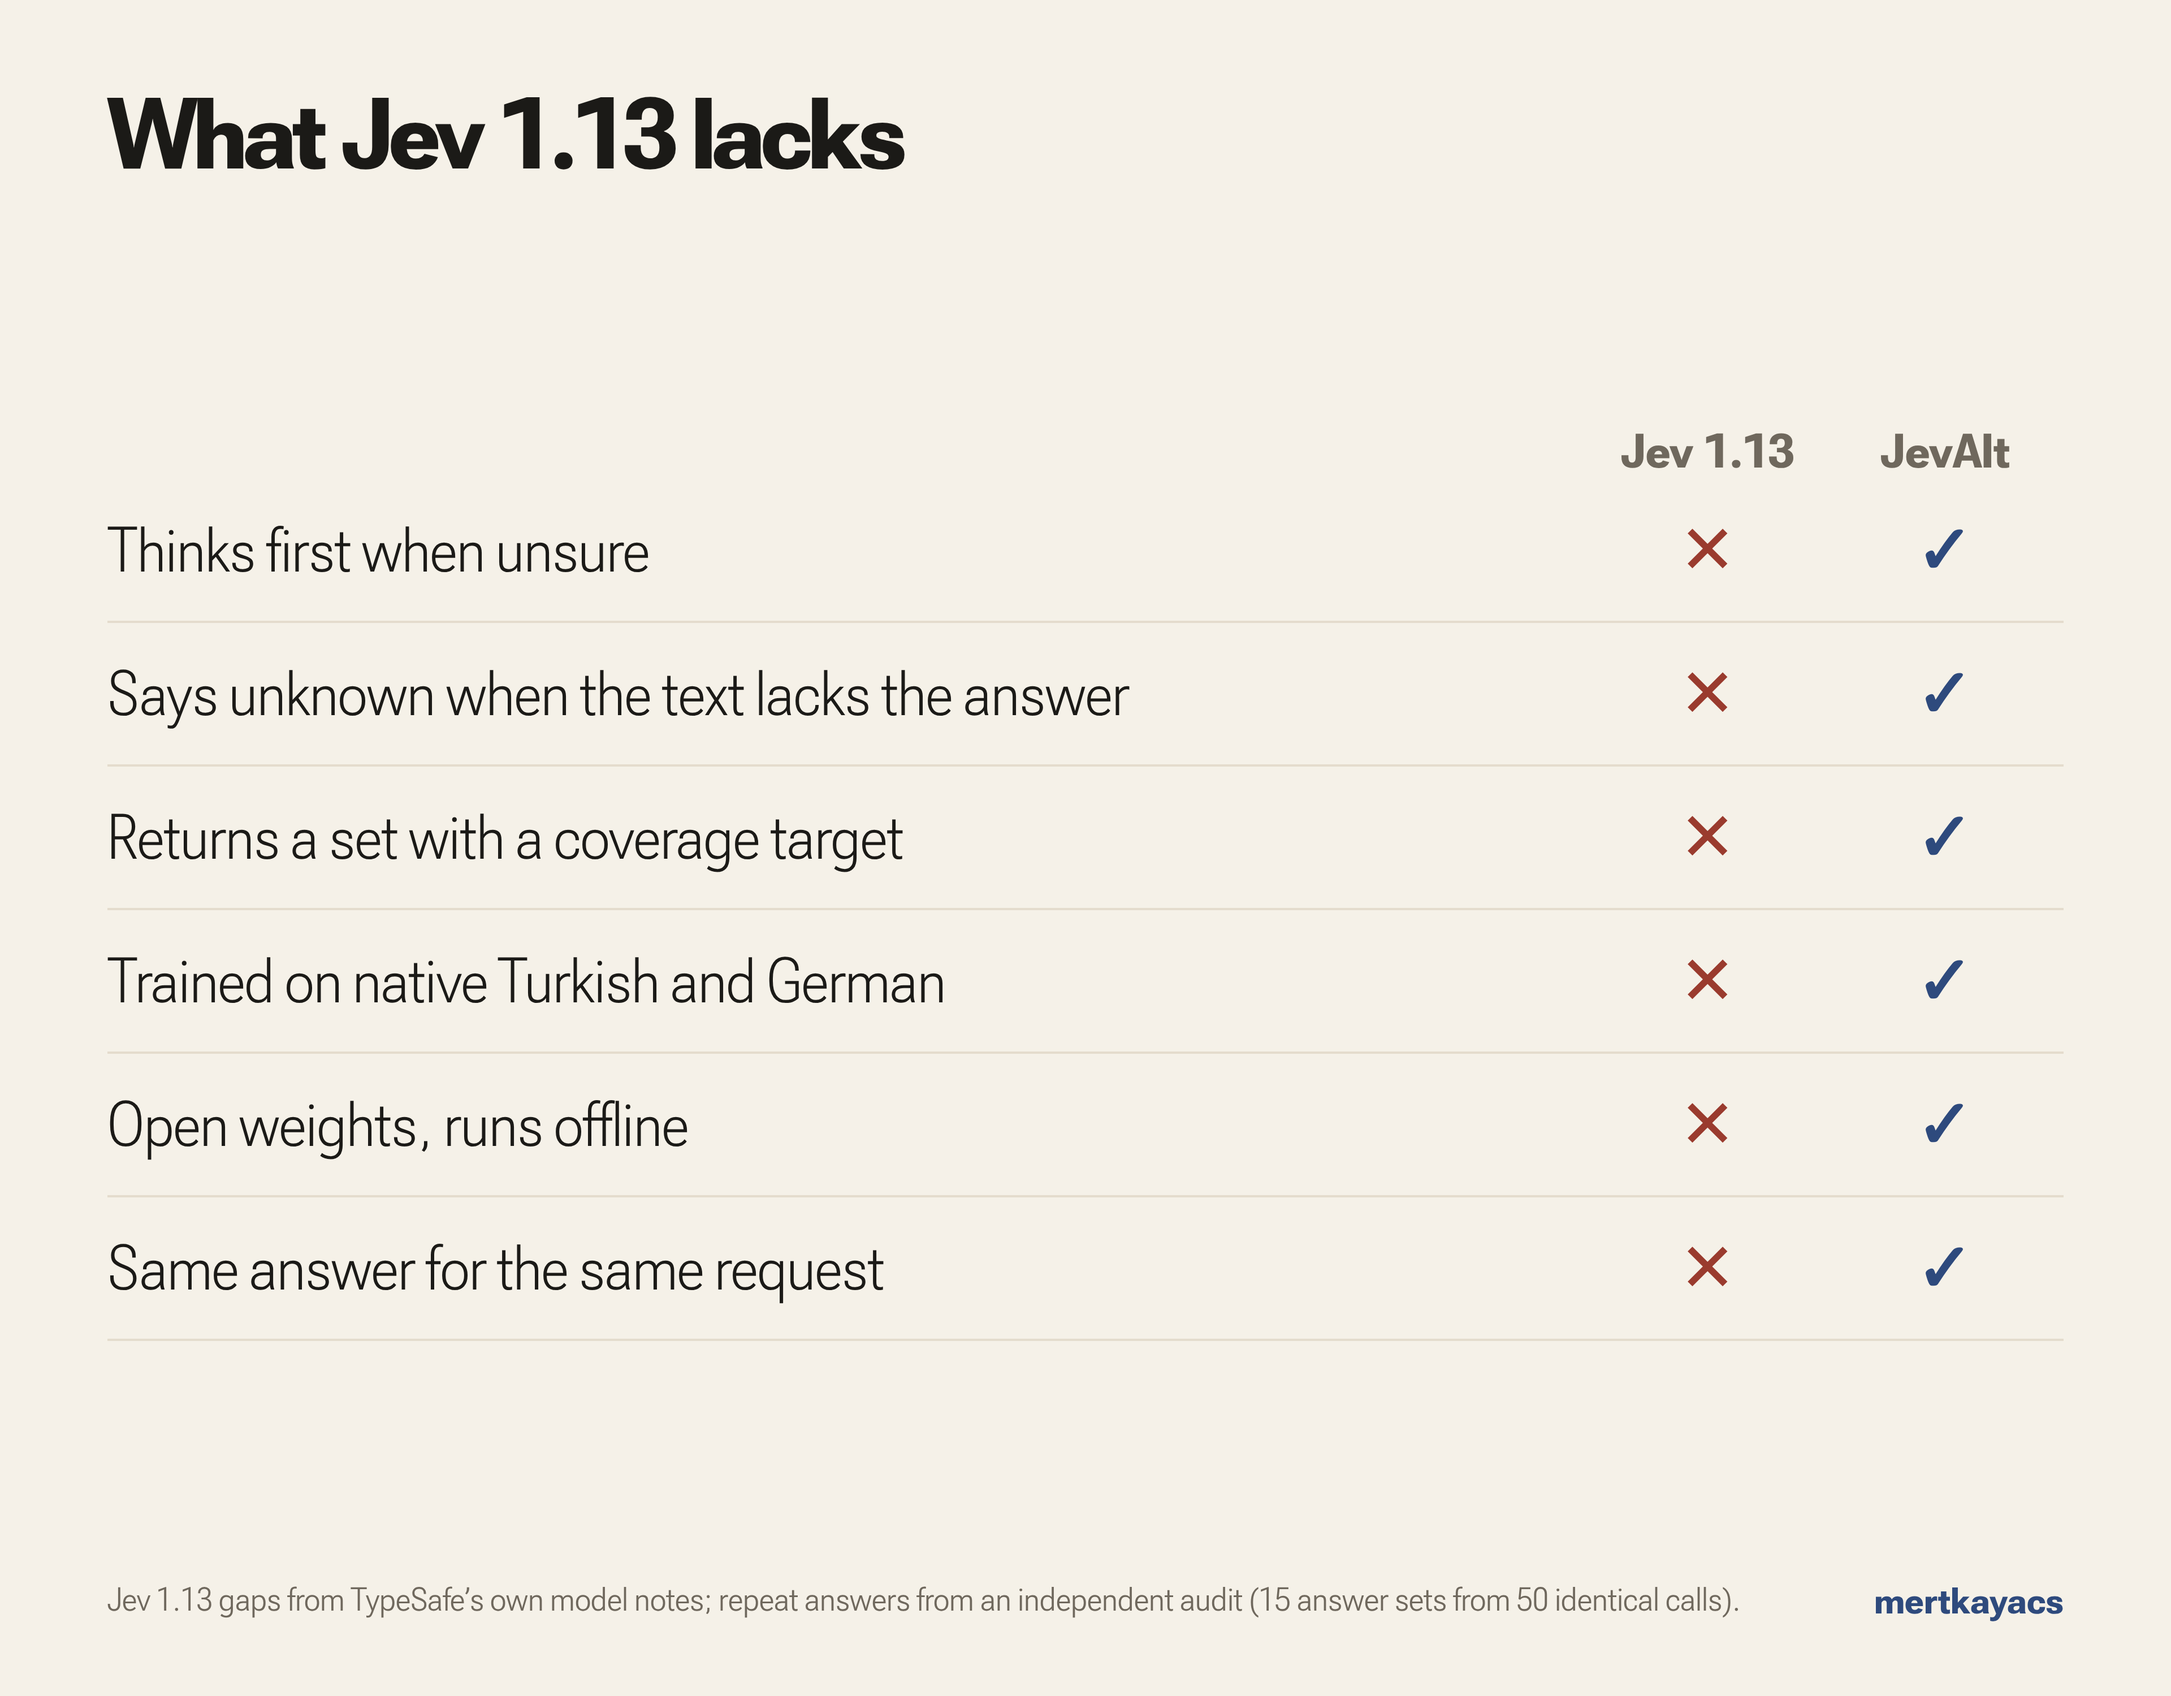
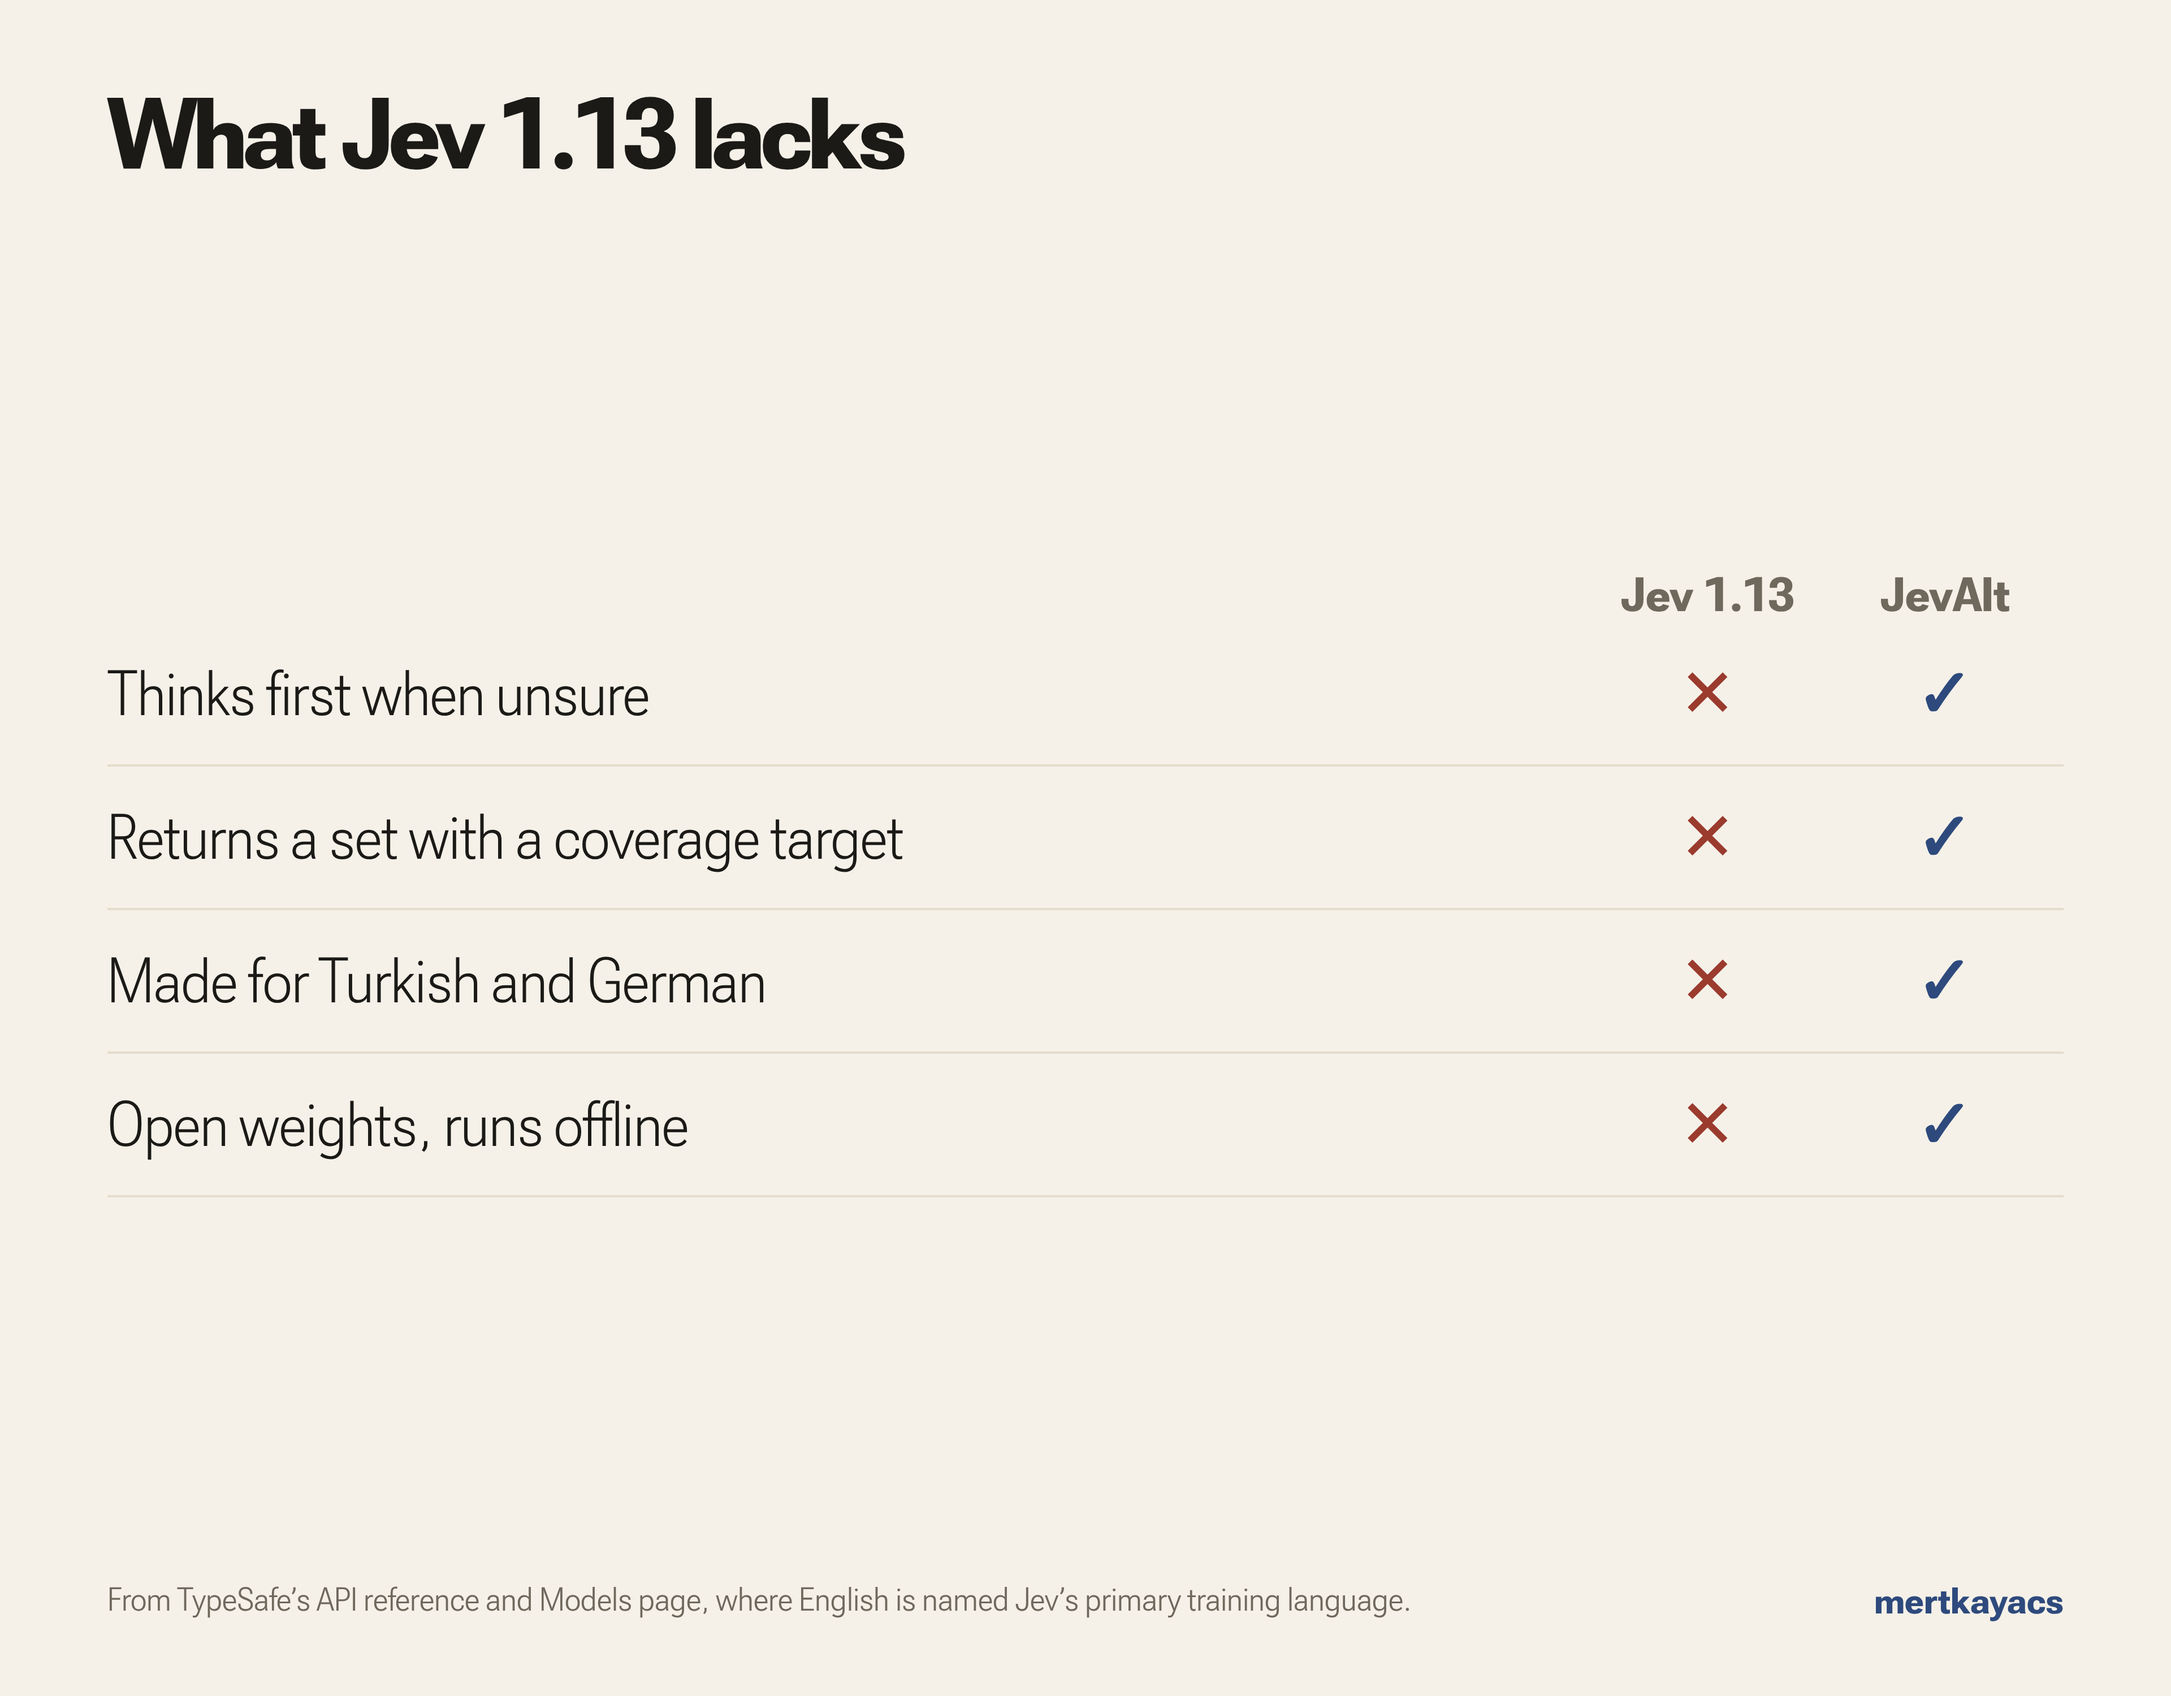
Film is 53 s with two problems; the Jev 1.13 chart keeps only what TypeSafe's API reference and Models page support (no repeat-answers or unknown rows), and cards cite those pages

diff --git a/training/cards.py b/training/cards.py
@@ -143,13 +143,13 @@ OTHER_NAMES = {"intern-decision-4b": "Intern-Decision-4B", "kev-4b": "Kev-4B", "
 COMPARE_FILES = "https://huggingface.co/datasets/mertkayacs/jevalt-bench/tree/main/results/comparison"
 VIDEOS = "https://huggingface.co/datasets/mertkayacs/emberwick-videos"
 GIF_CAPTION = "Emberwick: every villager asks Deem-4B what to do next."
-FILM_CAPTION = "The one-minute film, sound on: three mistakes small decision models make and how JevAlt fixes each one."
+FILM_CAPTION = "The 53-second film, sound on: two mistakes small decision models make and how JevAlt fixes each one."
 # Turkish and German pages offer the clip and the film in their own language next to the English ones.
 NATIVE = {
-    "tr": ("Türkçe sürüm", "Emberwick Türkçe: her köylü bir sonraki adımını Karar-4B'ye soruyor.", "Bir dakikalık film, sesi açın.",
+    "tr": ("Türkçe sürüm", "Emberwick Türkçe: her köylü bir sonraki adımını Karar-4B'ye soruyor.", "53 saniyelik film, sesi açın.",
            "GIF (4K)", "hafif GIF"),
     "de": ("Deutsche Version", "Emberwick auf Deutsch: Jeder Dorfbewohner fragt Wähler-4B, was als Nächstes zu tun ist.",
-           "Der einminütige Film, mit Ton.", "GIF (4K)", "leichtes GIF"),
+           "Der 53-Sekunden-Film, mit Ton.", "GIF (4K)", "leichtes GIF"),
 }
 
 
@@ -266,12 +266,12 @@ Where the others do better: {'; '.join(others)}. Result files and every decision
 """
 
 
-JEV_NOTES = "https://docs.typesafe.ai/model-jaggedness/jev-1.13"
-JEV_AUDIT = "https://github.com/jujumilk3/jev-calibration-audit/blob/main/FINDINGS.md"
+JEV_API = "https://docs.typesafe.ai/api"
+JEV_MODELS = "https://docs.typesafe.ai/models"
 CHART_ALT = {
     "langs": "Accuracy on English, Turkish and German decisions and on typed-decisions: JevAlt, Intern-Decision-4B, Kev-4B and Laya",
     "fixes": "Hidden instructions, option order, long policies and negated questions: JevAlt against Intern-Decision-4B, Kev-4B and Laya",
-    "jev": "What Jev 1.13 lacks and JevAlt has: thinking when unsure, an unknown answer, coverage sets, native Turkish and German, open weights, repeatable answers",
+    "jev": "What Jev 1.13 lacks and JevAlt has: thinking when unsure, coverage sets, models made for Turkish and German, open weights",
 }
 
 
@@ -311,7 +311,7 @@ def charts_section(lang: str, comp: dict, notes: str = "") -> str:
 
 {charts}
 
-Same items and client for every model, each as shipped: [Kev-4B](https://huggingface.co/jaredpalmer/kev-4b) r10 and [Laya](https://huggingface.co/convaiinnovations/laya) 0.3.22 on their own servers with their own calibration. Jev 1.13 rows come from [TypeSafe's notes]({JEV_NOTES}) and an [independent audit]({JEV_AUDIT}). The held-out tests come from JevAlt's own data pipeline, so they favour JevAlt. {'; '.join(others)}. Every number and every decision: [results/comparison]({COMPARE_FILES}).
+Same items and client for every model, each as shipped: [Kev-4B](https://huggingface.co/jaredpalmer/kev-4b) r10 and [Laya](https://huggingface.co/convaiinnovations/laya) 0.3.22 on their own servers with their own calibration. Jev 1.13 rows come from TypeSafe's [API reference]({JEV_API}) and [Models page]({JEV_MODELS}). The held-out tests come from JevAlt's own data pipeline, so they favour JevAlt. {'; '.join(others)}. Every number and every decision: [results/comparison]({COMPARE_FILES}).
 {folded}
 """
 

diff --git a/README.md b/README.md
@@ -15,7 +15,7 @@ JevAlt is three open 4B decision models: **Deem-4B** for English, **Karar-4B** f
 
 <a href="https://huggingface.co/datasets/mertkayacs/emberwick-videos/resolve/main/film/jevalt-film-en-1080p.mp4"><img src="https://raw.githubusercontent.com/mertkayacs/jevalt/media/film-poster-en.jpg" width="560" alt="Watch the one-minute film: three mistakes small decision models make and how JevAlt fixes each one"></a>
 
-*The one-minute film, sound on: three mistakes small decision models make and how JevAlt fixes each one. Also in [Türkçe](https://huggingface.co/datasets/mertkayacs/emberwick-videos/resolve/main/film/jevalt-film-tr-1080p.mp4) and [Deutsch](https://huggingface.co/datasets/mertkayacs/emberwick-videos/resolve/main/film/jevalt-film-de-1080p.mp4).*
+*The 53-second film, sound on: two mistakes small decision models make and how JevAlt fixes each one. Also in [Türkçe](https://huggingface.co/datasets/mertkayacs/emberwick-videos/resolve/main/film/jevalt-film-tr-1080p.mp4) and [Deutsch](https://huggingface.co/datasets/mertkayacs/emberwick-videos/resolve/main/film/jevalt-film-de-1080p.mp4).*
 
 ## Try it
 
@@ -76,7 +76,7 @@ Where the others lead: Kev-4B on 10kGNAD, and on GermEval 2017 against Wähler-4
 <details>
 <summary><b>Significance and caveats</b></summary>
 
-![What Jev 1.13 lacks and JevAlt has: thinking when unsure, an unknown answer, coverage sets, native Turkish and German, open weights, repeatable answers](docs/assets/charts/jev.png)
+![What Jev 1.13 lacks and JevAlt has: thinking when unsure, coverage sets, models made for Turkish and German, open weights](docs/assets/charts/jev.png)
 
 A paired bootstrap (2,000 resamples) puts every held-out gain well above zero: +4.4, +5.1 and +11.5 accuracy points in each model's own language. Off the training distribution the picture is flatter. Wähler-4B gains 4.75 points on 10kGNAD and Karar-4B 4.0 on GermEval, both significant; TurkishMMLU, typed-decisions and JevBench-hard show no significant accuracy change, and Brier gets slightly worse on typed-decisions and JevBench-hard. JevAlt trained on the typed-decisions train split; its scores use the test split.
 

diff --git a/docs/index.md b/docs/index.md
@@ -20,7 +20,7 @@ Your code acts on the numbers. A 0.97 can go straight through; a 0.55 can go to 
 
 ## What JevAlt adds
 
-![What Jev 1.13 lacks and JevAlt has: thinking when unsure, an unknown answer, coverage sets, native Turkish and German, open weights, repeatable answers](assets/charts/jev.png)
+![What Jev 1.13 lacks and JevAlt has: thinking when unsure, coverage sets, models made for Turkish and German, open weights](assets/charts/jev.png)
 
 ![Hidden instructions, option order, long policies and negated questions: JevAlt against Intern-Decision-4B, Kev-4B and Laya](assets/charts/fixes.png)
 
